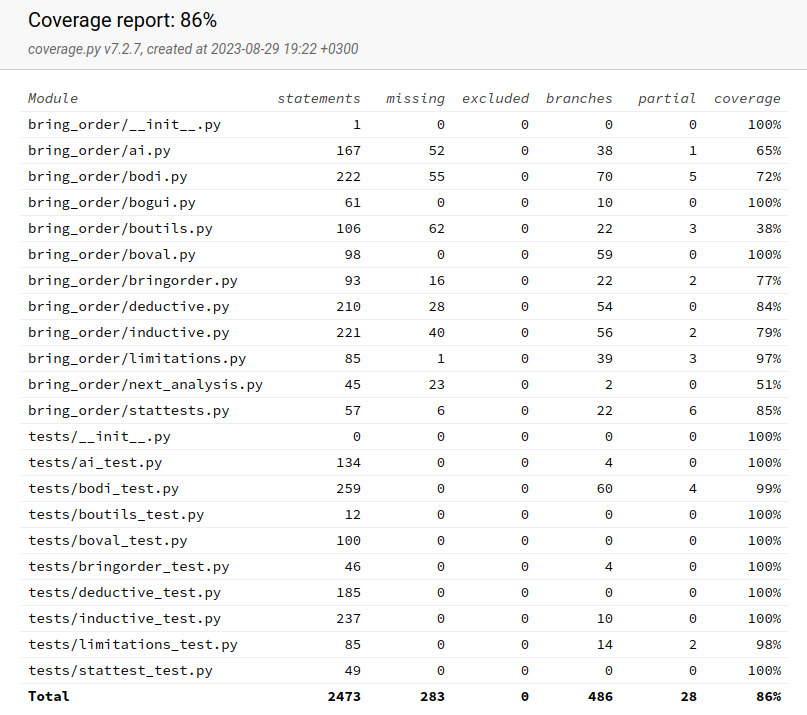
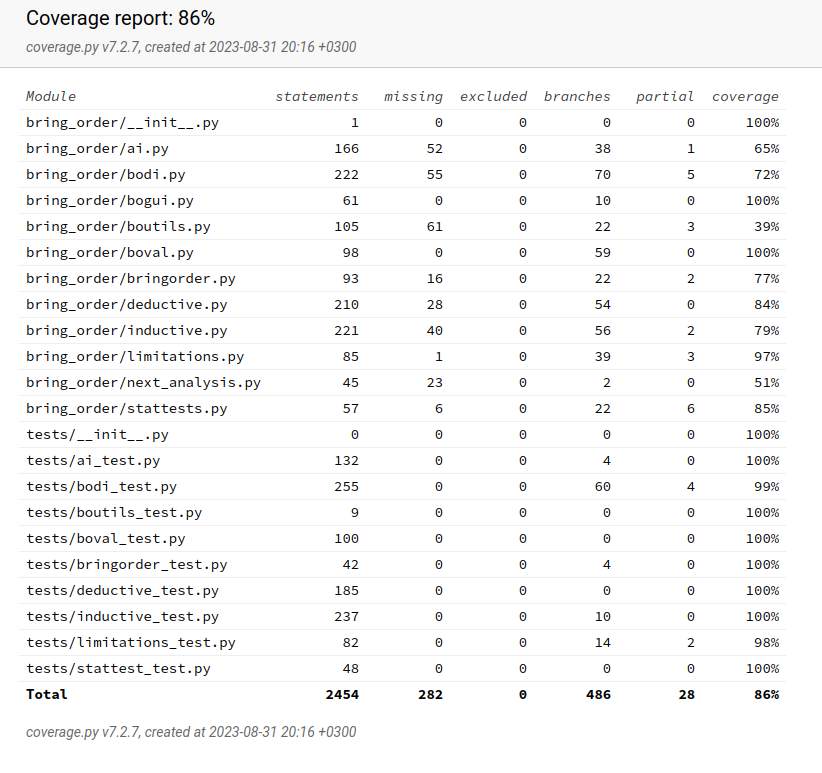
updated coverage picture, pylint fixes

diff --git a/bring_order/boutils.py b/bring_order/boutils.py
@@ -29,8 +29,9 @@ class BOUtils:
             IPython.notebook.insert_cell_above("code")
             '''
             display(Javascript(command))
-        
+
     def focus_on_input_above(self, distance):
+        ''' Sets cursor focus on input above.'''
         command = f'''
             var cell = IPython.notebook.get_cell(-{distance})
             cell.code_mirror.getInputField().focus()
@@ -76,7 +77,6 @@ class BOUtils:
         width = height = Inches(6)
         txt_box = slide.shapes.add_textbox(left, top, width, height)
         txt_frame = txt_box.text_frame
-        txt_frame.auto_size
 
         for row in rows:
             if '#' in row:
@@ -209,7 +209,7 @@ class BOUtils:
     def check_cells_above(self, cell_count, test_name, variables):
         """Check if cells above contain the given test and at least one of the given variables.
         Prints a warning.
-        
+
         Args:
             cell_count (int): the number of cells to be checked
             test_name (str): the text you are trying to find
@@ -275,9 +275,8 @@ class BOUtils:
         if substrings:
             self.print_to_console("\\n".join(substrings))
             return "\\n".join(substrings)
-        else:
-            return 'No Python code in the response'
-        
+
+        return 'No Python code in the response'
 
     def insert_ai_code_into_new_cell(self, code=''):
         """Opens new empty code cell and inserts the given code into it.

diff --git a/bring_order/bringorder.py b/bring_order/bringorder.py
@@ -23,7 +23,7 @@ class BringOrder:
         """Class constructor.     
         'next_step' is passed on to other classes and used to track
         which UI module to run next."""
-        
+
         self.boutils = BOUtils()
         self.bogui = BOGui()
         self.deductive = None
@@ -49,7 +49,7 @@ class BringOrder:
 
     @property
     def button_list(self):
-        """Buttons for Bodi class.
+        """Buttons for BringOrder class.
 
         Returns:
             list of tuples in format (tag: str, description: str, command: func, style: str)
@@ -103,7 +103,7 @@ class BringOrder:
         The different ui functions are run through a helper function
         that returns the name of the next function to be executed.
         First, the data import function."""
-        
+
         next_step = 'new_data'
         # Import loop:
         while next_step == 'new_data':

diff --git a/bring_order/next_analysis.py b/bring_order/next_analysis.py
@@ -1,8 +1,10 @@
+'''BringOrder NextAnalysis'''
 import os
 from ipywidgets import widgets
 from IPython.display import display, clear_output, Javascript
 
 class NextAnalysis:
+    ''' NextAnalysis class completes inductive or deductive phases '''
     def __init__(self, bogui, boutils, next_step):
         self.bogui = bogui
         self.boutils = boutils
@@ -11,6 +13,11 @@ class NextAnalysis:
 
     @property
     def button_list(self):
+        """Buttons for NextAnalysis.
+
+        Returns:
+            list of tuples in format (tag: str, description: str, command: func, style: str)
+        """
         button_list = [
             ('new', 'New analysis', self.start_new_analysis, 'success'),
             ('prepare', 'Prepare new data', self.prepare_new_data_pressed, 'success'),

diff --git a/documentation/testing_report.md b/documentation/testing_report.md
@@ -50,7 +50,7 @@ The application contains parts that are tested manually instead of automated tes
 
 ### Style checking
 
-Code quality is checked and maintained using Pylint. The latest pylint inspection gave a rating of 9.70/10.
+Code quality is checked and maintained using Pylint. The latest pylint inspection gave a rating of 9.76/10.
 
 ## Running tests
 
